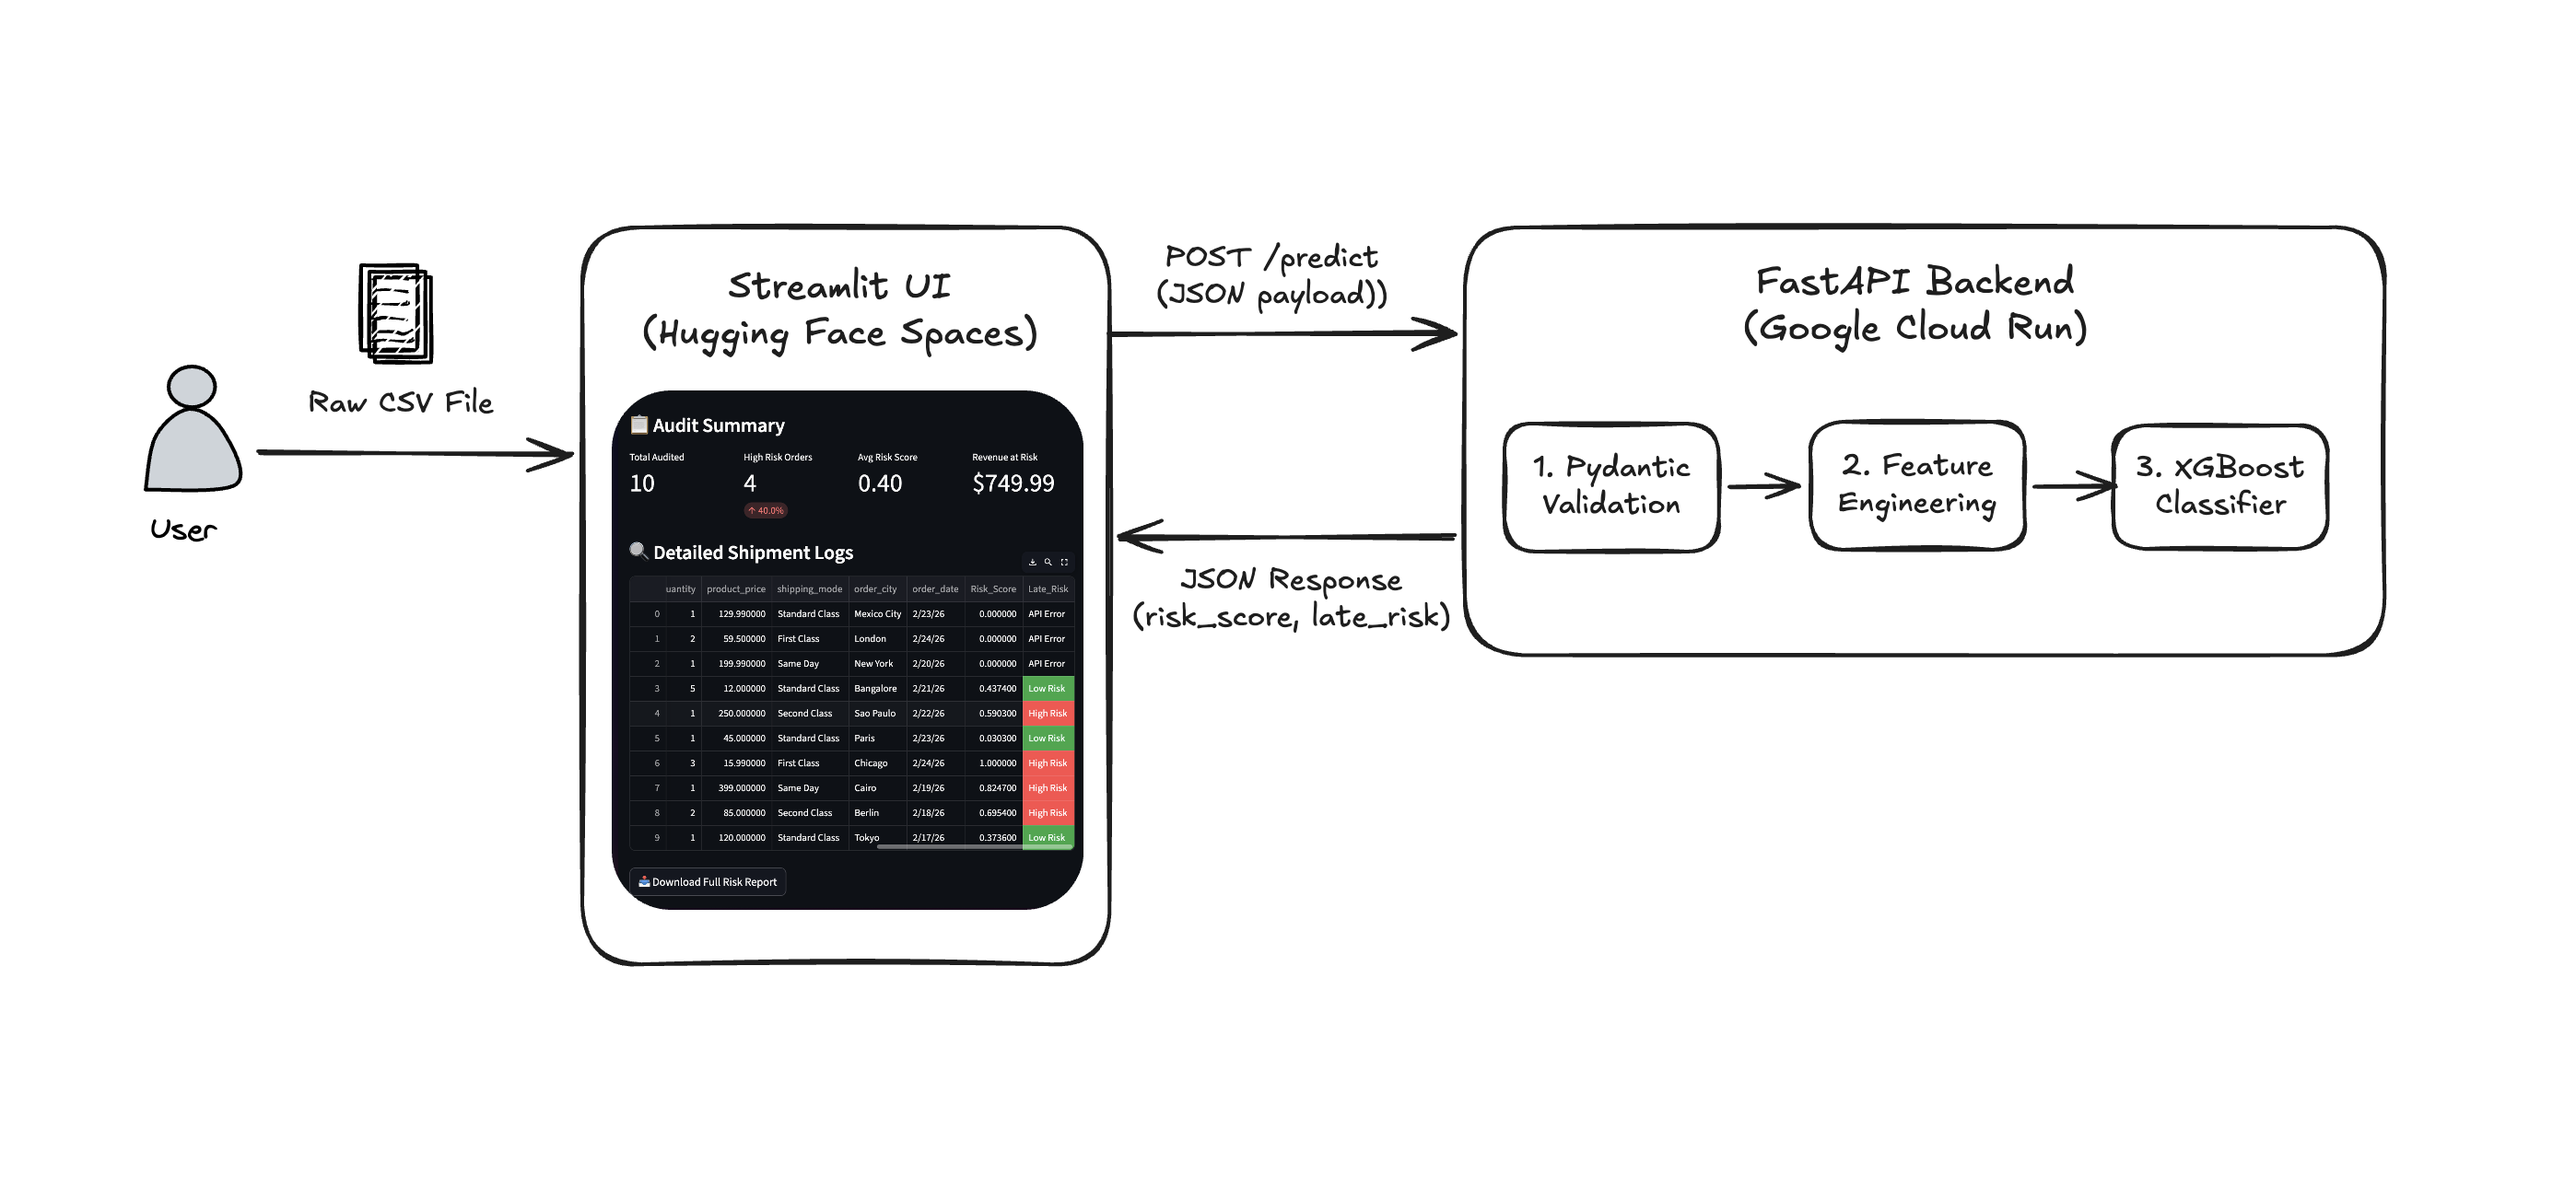
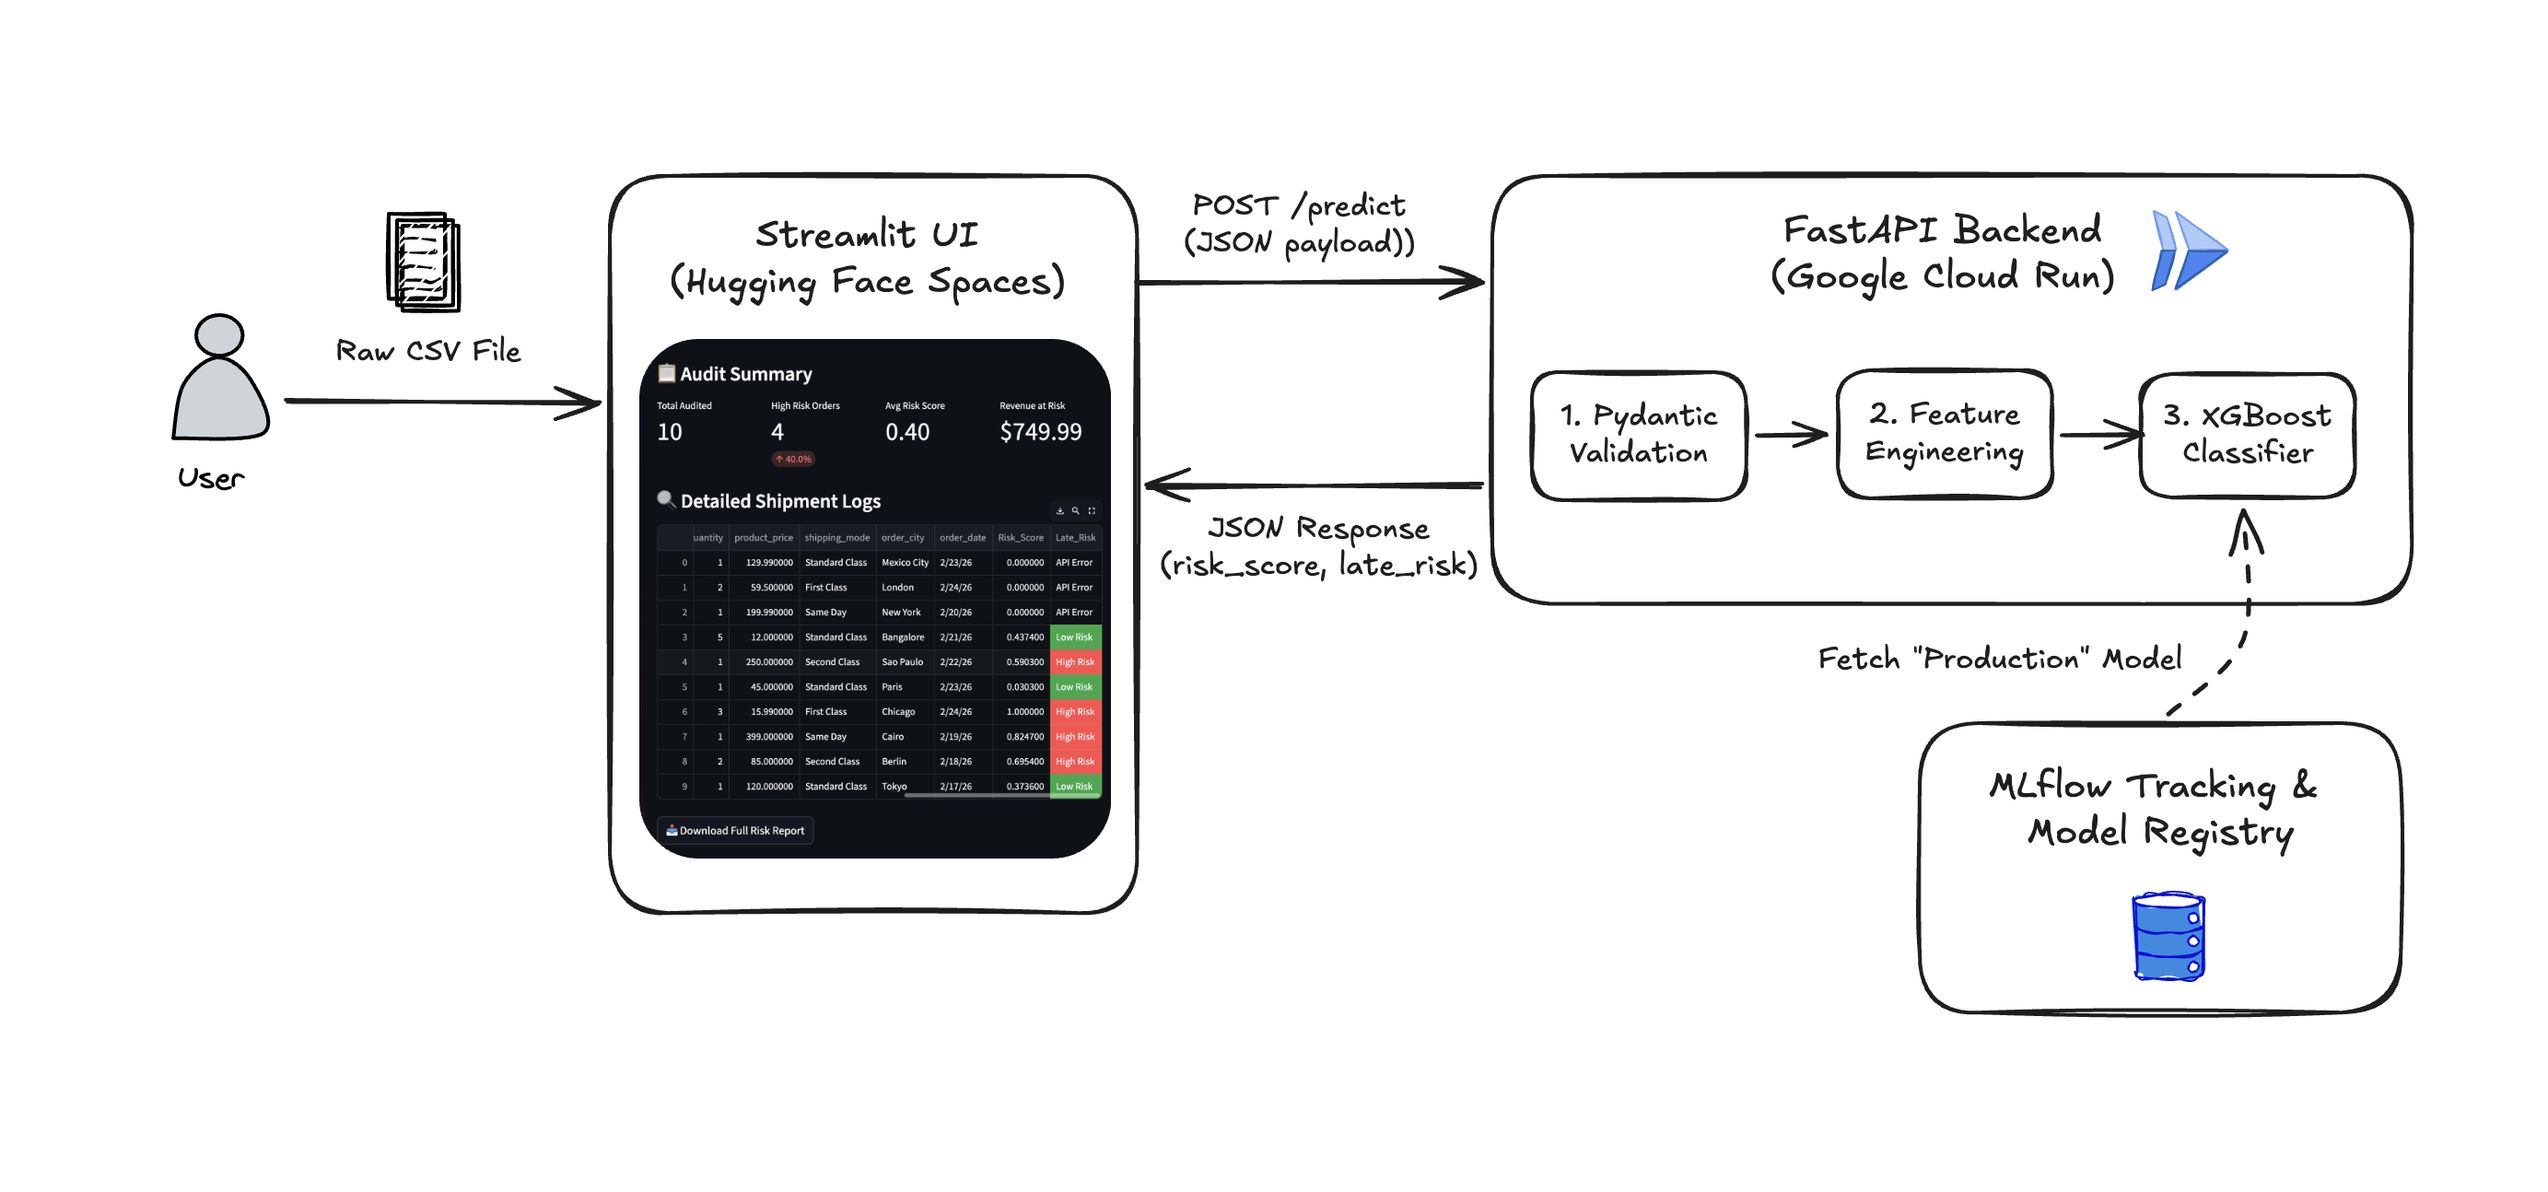
fix_readme

diff --git a/README.md b/README.md
@@ -1,37 +1,76 @@
 # 🚚 LogiRisk AI: End-to-End Supply Chain Risk Auditor
 
-**Live Demo:** [Go to LiveDemo](https://huggingface.co/spaces/kaungsithu-sallius/logistics-risk-auditor)
+**Live Demo:** [Go to Hugging Face Space](https://huggingface.co/spaces/kaungsithu-sallius/logistics-risk-auditor)
 
-**API Documentation:** [Google API Link](https://logirisk-api-716133749292.us-central1.run.app/docs)
+**API Documentation:** [FastAPI Swagger UI](https://logirisk-api-716133749292.us-central1.run.app/docs)
 
-## 🖼 System Diagram
-![System Diagram](./system_dia.png)
+---
+
+## 🖼 System Architecture Diagram
+![System Architecture](./system_dia.png)
+> **Note:** The diagram illustrates the decoupled flow between the Streamlit frontend, the FastAPI backend, and the MLflow model management layer.
+
+---
 
 ## 🎯 Business Problem
-Logistics managers often struggle to identify which shipments are likely to be delayed in a high-volume environment. This project provides a **Decision Support System** that audits raw shipment logs to identify "Revenue at Risk" in seconds.
+Logistics managers often struggle to identify which shipments are likely to be delayed in a high-volume environment. This project provides a **Decision Support System** that audits raw shipment logs to identify **"Revenue at Risk"** in seconds, allowing for proactive intervention before costs escalate.
 
-## 🏗 System Architecture
-The system follows a modern, decoupled microservices architecture:
+---
 
-1. **Frontend (Streamlit):** Hosted on **Hugging Face Spaces**. Provides a bulk CSV upload interface and an executive dashboard.
-2. **Backend (FastAPI):** Dockerized and deployed on **Google Cloud Run**.
-3. **Validation (Pydantic):** Ensures data integrity at the API entry point.
-4. **Logic (Python):** Automated feature engineering (Urgency Scores, Temporal analysis) happens on-the-fly inside the API.
-5. **Model (XGBoost):** A pre-trained classifier with **77% accuracy**.
+## 🏗 System Architecture & MLOps Lifecycle
+The system follows a modern, decoupled microservices architecture designed for scalability and reproducibility:
+
+1.  **Frontend (Streamlit):** Hosted on **Hugging Face Spaces**. It serves as the user interaction layer for bulk CSV auditing and real-time visualization.
+2.  **Backend (FastAPI):** Dockerized and deployed on **Google Cloud Run**. It manages incoming requests and executes the core logic pipeline.
+3.  **Experiment Tracking & Registry (MLflow):**
+    * **Tracking:** Logged hyperparameters, evaluation metrics (Accuracy, F1-Score), and training artifacts during the experimentation phase.
+    * **Registry:** Centralized model versioning, ensuring the FastAPI production environment always pulls the latest validated and aliased "Production" model.
+4.  **Validation (Pydantic):** Ensures strict data integrity and type-safety at the API entry point, rejecting malformed data before it reaches the model.
+5.  **Logic (Python):** Executes automated feature engineering on-the-fly (Urgency Scores and Temporal analysis) to prepare raw data for inference.
+6.  **Model (XGBoost):** A high-performance tree-based classifier optimized for tabular logistics data, achieving **77% accuracy**.
+
+---
 
 ## 🛠 Tech Stack
-- **Machine Learning:** Python, Scikit-learn, XGBoost, Pandas.
-- **API Framework:** FastAPI, Uvicorn, Pydantic.
-- **Frontend:** Streamlit.
-- **DevOps/Cloud:** Docker, Google Cloud Run (GCR), Hugging Face Spaces.
+* **MLOps:** MLflow (Experiment Tracking, Model Registry).
+* **Machine Learning:** Python, Scikit-learn, XGBoost, Pandas.
+* **API Framework:** FastAPI, Uvicorn, Pydantic.
+* **Frontend:** Streamlit.
+* **DevOps/Cloud:** Docker, Google Cloud Run (GCR), Hugging Face Spaces.
+
+---
 
 ## 📊 Key Features
-- **Bulk Auditing:** Process 1,000+ rows via CSV upload.
-- **Feature Engineering:** Automatically calculates `urgency_score` ($days \div quantity$) and extracts temporal features from raw dates.
-- **Executive Summary:** Real-time calculation of "Revenue at Risk" and "Average Risk Score".
+* **Automated Feature Engineering:** Programmatically calculates the `urgency_score` ($days\_scheduled \div quantity$) and extracts temporal insights (`order_month`, `order_day`) from raw date inputs.
+* **Bulk Auditing:** Processes 1,000+ rows via CSV upload with an integrated progress tracker for large-scale logistics logs.
+* **Executive Dashboard:** Real-time calculation of total **Revenue at Risk** and batch **Average Risk Score** to provide immediate business context.
+
+---
 
 ## 🚀 How to Run Locally
+
+### 1. Setup Environment
+
 1. Clone the repository.
-2. Install dependencies: `pip install -r requirements.txt`.
-3. Start the API: `uvicorn app.main:app --reload`.
-4. Start the UI: `streamlit run ui.py`.
+
+    ```bash
+    git clone https://github.com/KaungSiThu-Sallius/LogiRisk-ML.git
+    ```
+
+2. Install dependencies.
+
+    ```bash
+    pip install -r requirements.txt
+    ```
+
+3. Start the API
+
+    ```bash
+    puvicorn app.main:app --reload
+    ```
+
+4. Start the UI
+
+    ```bash
+    streamlit run ui.py
+    ```
